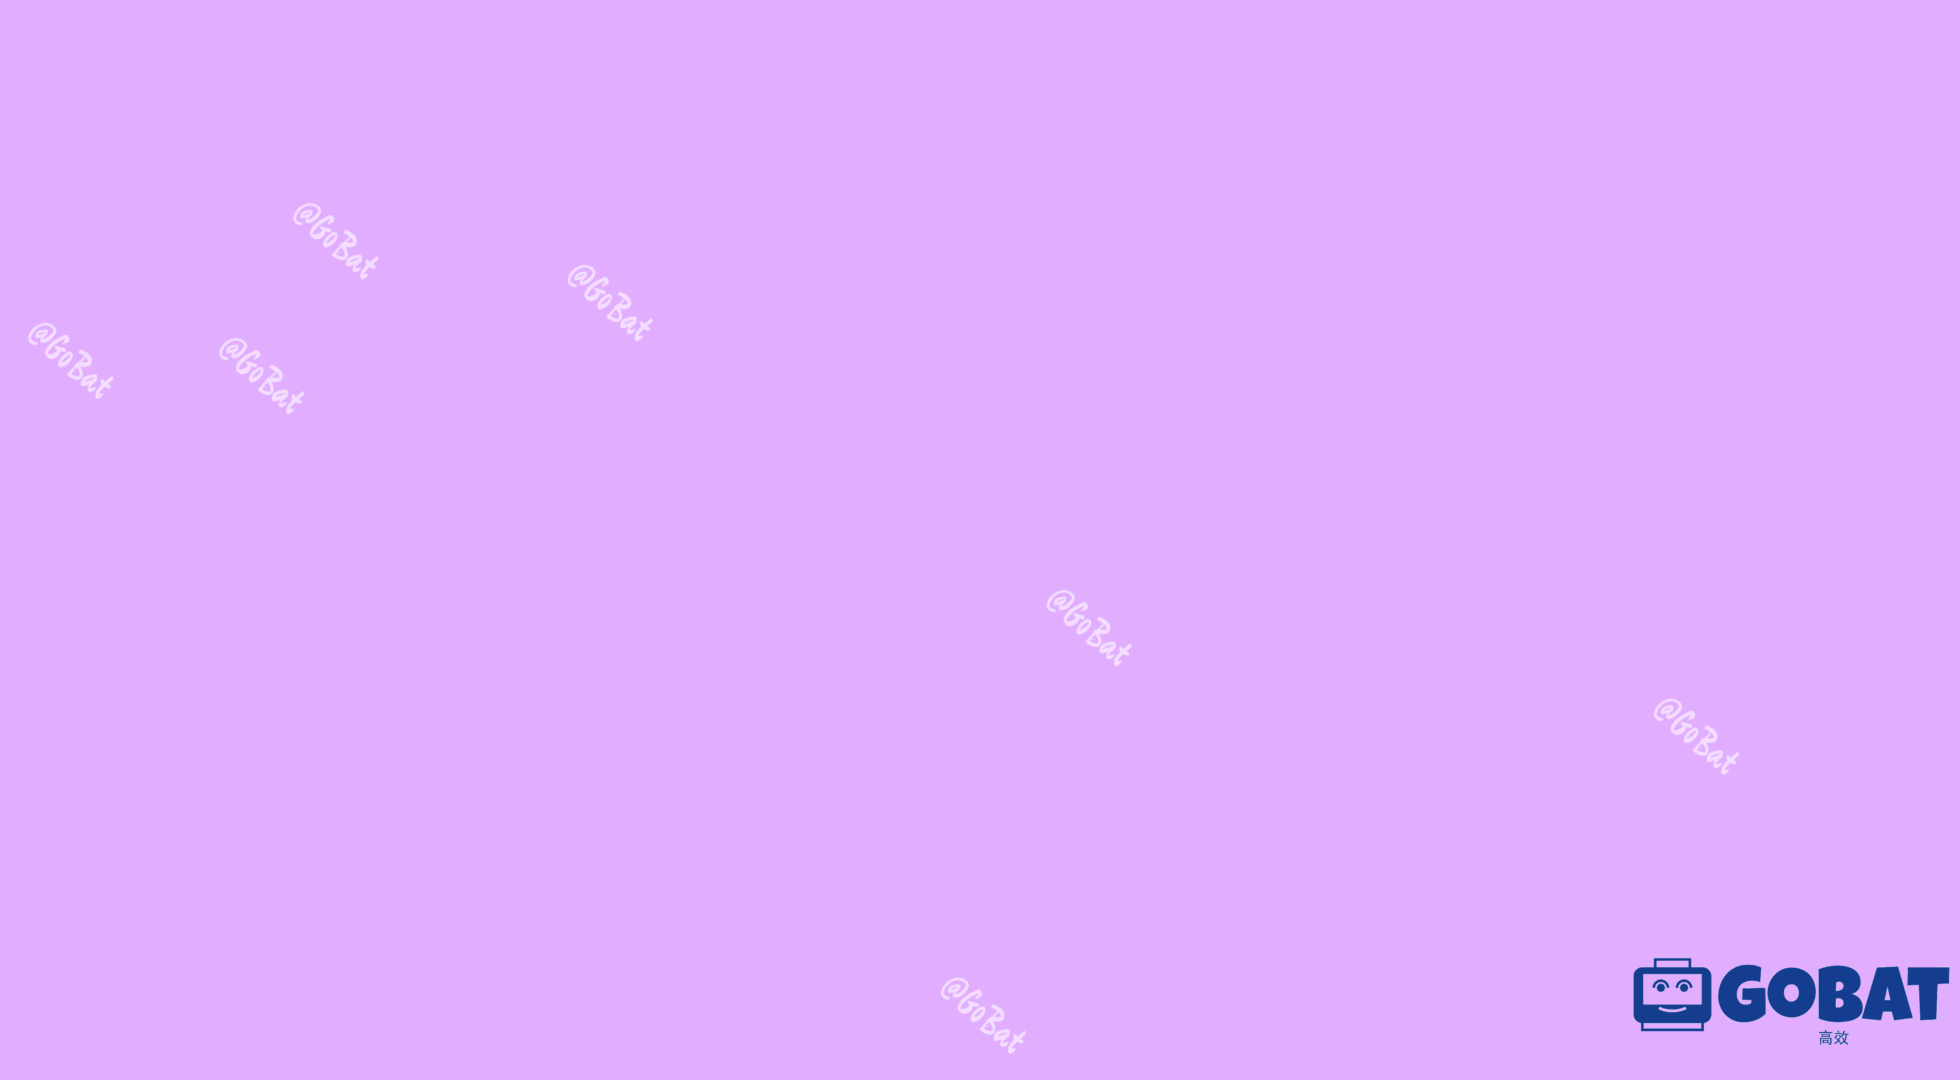
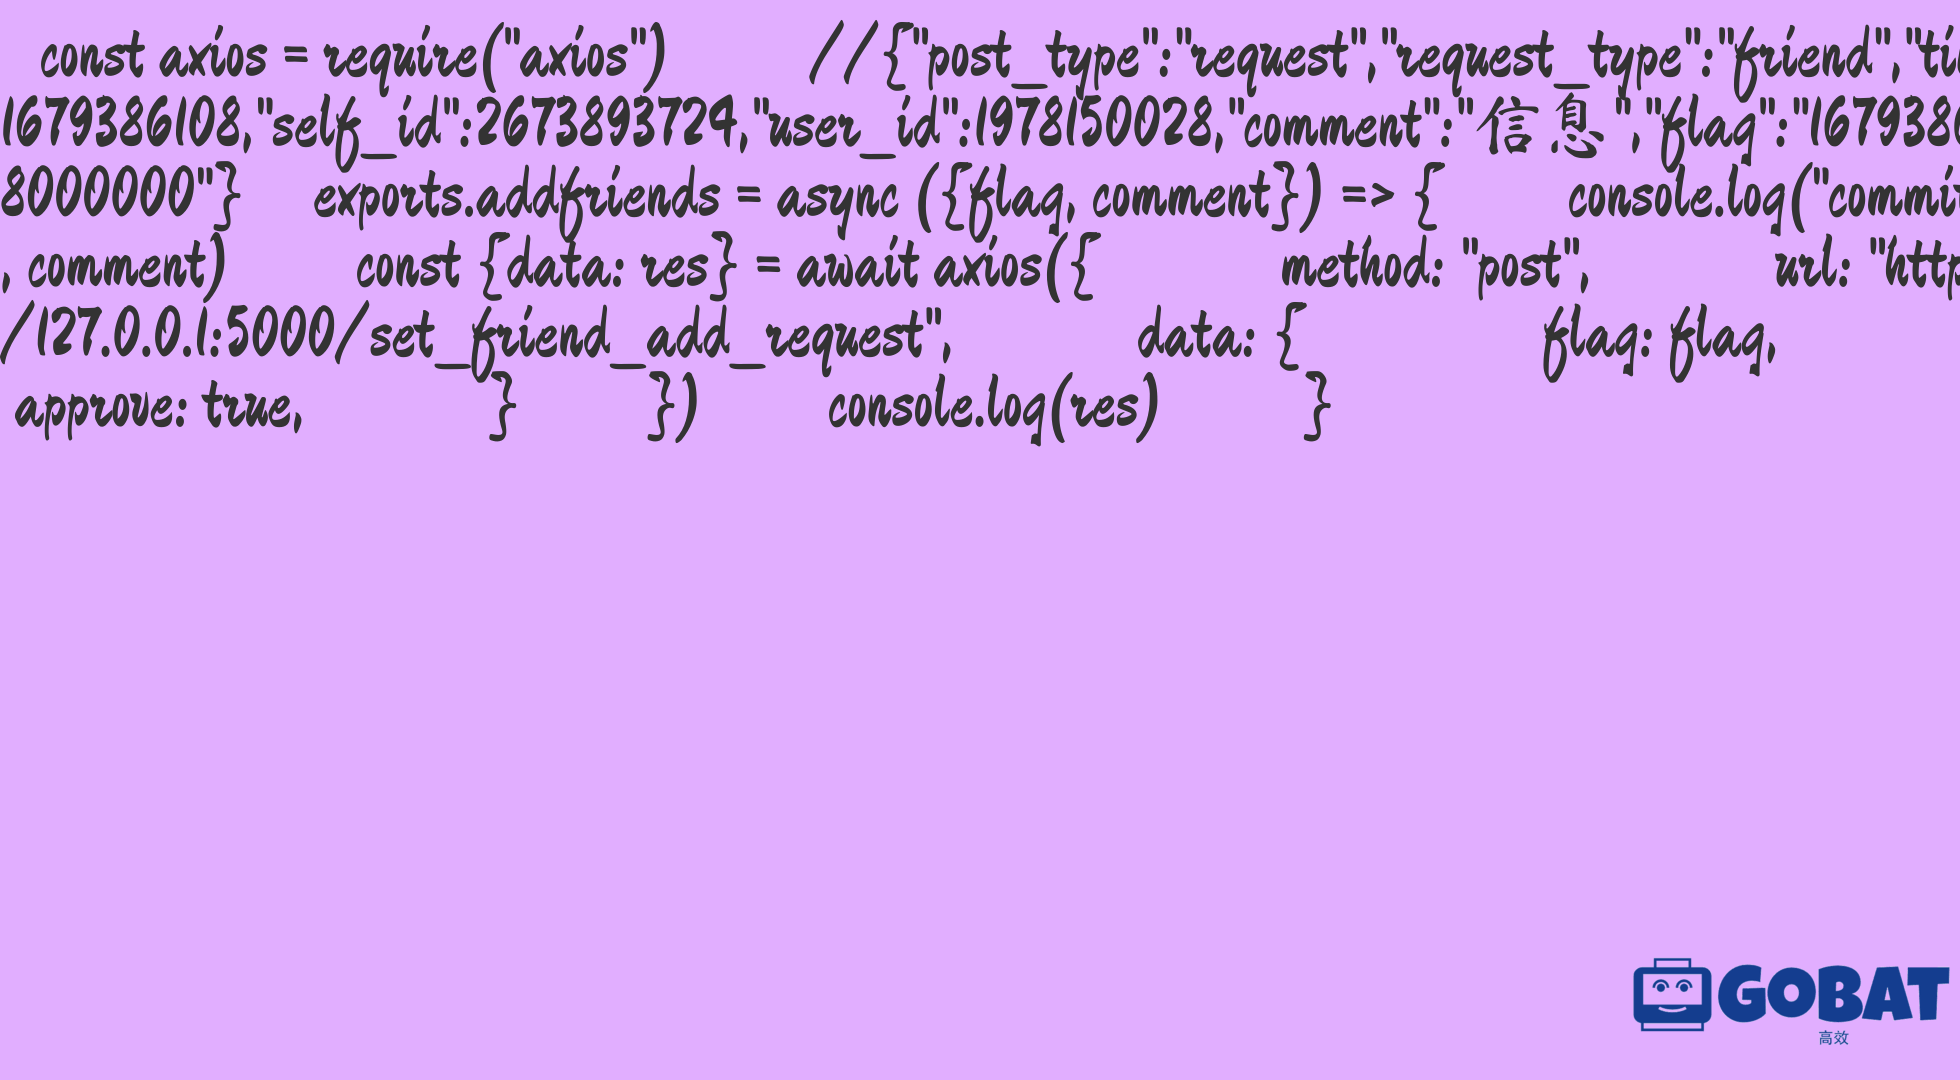
更新功能

diff --git a/config/picture.go b/config/picture.go
@@ -16,9 +16,10 @@ type Picture struct {
 }
 
 func (p *Picture) CreatePicture(strs string) {
+	t := time.Now()
 	str := strings.ReplaceAll(strs, "\t", "")
 	str = strings.ReplaceAll(str, "\n", "")
-	str = strings.ReplaceAll(str, " ", "")
+	str = strings.ReplaceAll(str, "   ", "")
 	var width float64
 	var s string
 	list := make([]string, 0)
@@ -123,10 +124,11 @@ func (p *Picture) CreatePicture(strs string) {
 					width = 0
 					s = ""
 				}
+
 				// (i == len(str)-3 && !unicode.IsLetter(rune(str[i : i+1][0])))意思为当i-3时如果不是中文继续写入，是中文才添加到列表中
 				//(i == len(str)-3 && !unicode.IsSymbol(rune(str[i : i+1][0])))意思为当i-3时如果不是字符=这种继续写入，是中文才添加到列表中
-				if wd < 1800 && (i == len(str)-3 && !unicode.IsLetter(rune(str[i : i+1][0])) && !unicode.IsSymbol(rune(str[i : i+1][0])) && !unicode.IsNumber(rune(str[i : i+1][0]))) || i == len(str)-1 {
-					fmt.Println(i, len(str), s, unicode.IsLetter(rune(str[i : i+1][0])), unicode.IsSymbol(rune(str[i : i+1][0])), str[i : i+1][0])
+				if wd < 1800 && (i == len(str)-3 && !unicode.IsLetter(rune(str[i : i+1][0])) && !unicode.IsSymbol(rune(str[i : i+1][0])) && !unicode.IsNumber(rune(str[i : i+1][0])) && !unicode.IsSpace(rune(str[i : i+1][0]))) || i == len(str)-1 {
+					fmt.Println(i, len(str), s, unicode.IsLetter(rune(str[i : i+1][0])), unicode.IsSymbol(rune(str[i : i+1][0])), unicode.IsSpace(rune(str[i : i+1][0])), str[i:i+1])
 					list = append(list, s)
 				}
 
@@ -153,5 +155,6 @@ func (p *Picture) CreatePicture(strs string) {
 		if err != nil {
 			log.Panicln(err)
 		}
+		fmt.Println("生成完成,时间为：", time.Now().Sub(t))
 	}
 }

diff --git a/api/Deal.go b/api/Deal.go
@@ -30,6 +30,11 @@ type Group struct {
 	m  manager
 }
 
+// 处理其他事件
+type Other struct {
+	a AutoFriend
+}
+
 // 生成文字
 type Text struct {
 	m mess
@@ -73,7 +78,6 @@ func (p *Picture) Controls(s any) {
 		p.p.CreatePicture(str)
 		config.SendChan <- "[CQ:image,file=file:///www/Go-Bat/config/f.png]"
 		return
-
 	} else if s.(config.Messages).Message_type == "group" {
 		p.m = new(Group)
 		str := p.m.MessageDeal(s)
@@ -84,6 +88,7 @@ func (p *Picture) Controls(s any) {
 		config.SendChan <- "[CQ:image,file=file:///www/Go-Bat/config/f.png]"
 		return
 	} else if s.(config.Messages).Notice_type != "" {
+		//撤回消息
 		str := p.m.MessageDeal(s)
 		if str == "" {
 			return
@@ -91,7 +96,12 @@ func (p *Picture) Controls(s any) {
 		p.p.CreatePicture(M.Data.Message)
 		config.SendChan <- str + "[CQ:image,file=file:///www/Go-Bat/config/f.png]"
 		return
+	} else if s.(config.Messages).Post_type == "request" {
+		//好友添加
+		p.m = new(Other)
+		p.m.MessageDeal(s)
 	}
+
 	str := p.m.MessageDeal(s)
 	if str == "" {
 		return
@@ -183,6 +193,13 @@ func (g *Group) MessageDeal(s any) string {
 	}
 
 	return st
+}
+
+func (o *Other) MessageDeal(s any) string {
+	if s.(config.Messages).Request_type == "friend" {
+		o.a.auto(s)
+	}
+	return ""
 }
 
 //func (p *Private) Controls(s any) {

diff --git a/test/img_test.go b/test/img_test.go
@@ -13,7 +13,7 @@ import (
 )
 
 func Test_img(t *testing.T) {
-	str := ""
+	str := "const axios = require(\"axios\")\n\n//{\"post_type\":\"request\",\"request_type\":\"friend\",\"time\":1679386108,\"self_id\":2673893724,\"user_id\":1978150028,\"comment\":\"信息\",\"flag\":\"1679386108000000\"}\nexports.addfriends = async ({flag, comment}) => {\n    console.log(\"commit:\", comment)\n    const {data: res} = await axios({\n        method: \"post\",\n        url: \"http://127.0.0.1:5000/set_friend_add_request\",\n        data: {\n            flag: flag,\n            approve: true,\n        }\n    })\n    console.log(res)\n\n}\n"
 	var width float64
 	var s string
 	list := make([]string, 0)
@@ -104,7 +104,7 @@ func Test_img(t *testing.T) {
 					s = ""
 				}
 
-				if wd < 1800 && (i == len(str)-3 && !unicode.IsLetter(rune(str[i : i+1][0]))) || i == len(str)-1 {
+				if wd < 1800 && (i == len(str)-3 && !unicode.IsLetter(rune(str[i : i+1][0])) && !unicode.IsSymbol(rune(str[i : i+1][0])) && !unicode.IsNumber(rune(str[i : i+1][0])) && !unicode.IsSpace(rune(str[i : i+1][0]))) || i == len(str)-1 {
 					fmt.Println(i, len(str), s, unicode.IsLetter(rune(str[i : i+1][0])), str[i : i+1][0])
 					list = append(list, s)
 				}

diff --git a/api/autoaddfrend.go b/api/autoaddfrend.go
@@ -1,0 +1,29 @@
+package api
+
+import (
+	"Go-Bat/config"
+	"bytes"
+	"encoding/json"
+	"log"
+	"net/http"
+	"strconv"
+)
+
+type AutoFriend struct {
+	Flag    string `json:"flag,omitempty"`
+	Approve bool   `json:"approve,omitempty"`
+	Remark  string `json:"remark,omitempty"`
+}
+
+// {"post_type":"request","request_type":"friend","time":1679386108,"self_id":2673893724,"user_id":1978150028,"comment":"信息","flag":"1679386108000000"}
+func (a *AutoFriend) auto(f any) {
+	marshal, err := json.Marshal(AutoFriend{Flag: f.(AutoFriend).Flag, Approve: true, Remark: f.(AutoFriend).Remark})
+	if err != nil {
+		log.Panicln(err)
+	}
+	resp, err := http.Post("http://127.0.0.1:"+strconv.Itoa(config.K.Server.Port)+"/upload_group_file", "application/json", bytes.NewBuffer(marshal))
+	if err != nil {
+		log.Panicln(err)
+	}
+	defer resp.Body.Close()
+}

diff --git a/api/group.go b/api/group.go
@@ -23,7 +23,6 @@ type GroupList struct {
 }
 
 func (g *GroupList) receive(s any) {
-
 	//默认为1小时
 	time := 60 * 60
 	id := s.(config.Messages).Message[strings.Index(s.(config.Messages).Message, "=")+1 : strings.Index(s.(config.Messages).Message, "]")]
@@ -66,16 +65,4 @@ func (g *GroupList) ban(Group GroupList) {
 		return
 	}
 	fmt.Println(string(res))
-}
-
-func (g *GroupList) upload(Group GroupList) {
-	marshal, err := json.Marshal(Group)
-	if err != nil {
-		log.Panicln(err)
-	}
-	resp, err := http.Post("http://127.0.0.1:"+strconv.Itoa(config.K.Server.Port)+"/upload_group_file", "application/json", bytes.NewBuffer(marshal))
-	if err != nil {
-		log.Panicln(err)
-	}
-	defer resp.Body.Close()
 }

diff --git a/api/Timing.go b/api/Timing.go
@@ -15,6 +15,7 @@ type timing struct {
 func (t *timing) Time() {
 	now := time.Now()
 	nextDay := time.Date(now.Year(), now.Month(), now.Day()+1, now.Hour(), now.Minute(), now.Second(), 0, now.Location()).Sub(now)
+	//创建*Time
 	timer := time.NewTimer(nextDay)
 	fmt.Println("开始")
 	//异步
@@ -26,7 +27,6 @@ func (t *timing) Time() {
 				now = time.Now()
 				nextDay = time.Date(now.Year(), now.Month(), now.Day()+1, now.Hour(), now.Minute(), now.Second(), 0, now.Location()).Sub(now)
 				_ = timer.Reset(nextDay)
-				fmt.Println(timer.C)
 				config.SendChan <- t.Message
 			}
 		}

diff --git a/config/config.go b/config/config.go
@@ -23,6 +23,7 @@ type Messages struct {
 	Group_id     int64   `json:"group_id,omitempty"`
 	Group_name   string  `json:"group_name,omitempty"`
 	Group_memo   string  `json:"group_memo,omitempty"`
+	Request_type string  `json:"request_type,omitempty"`
 }
 
 /*
